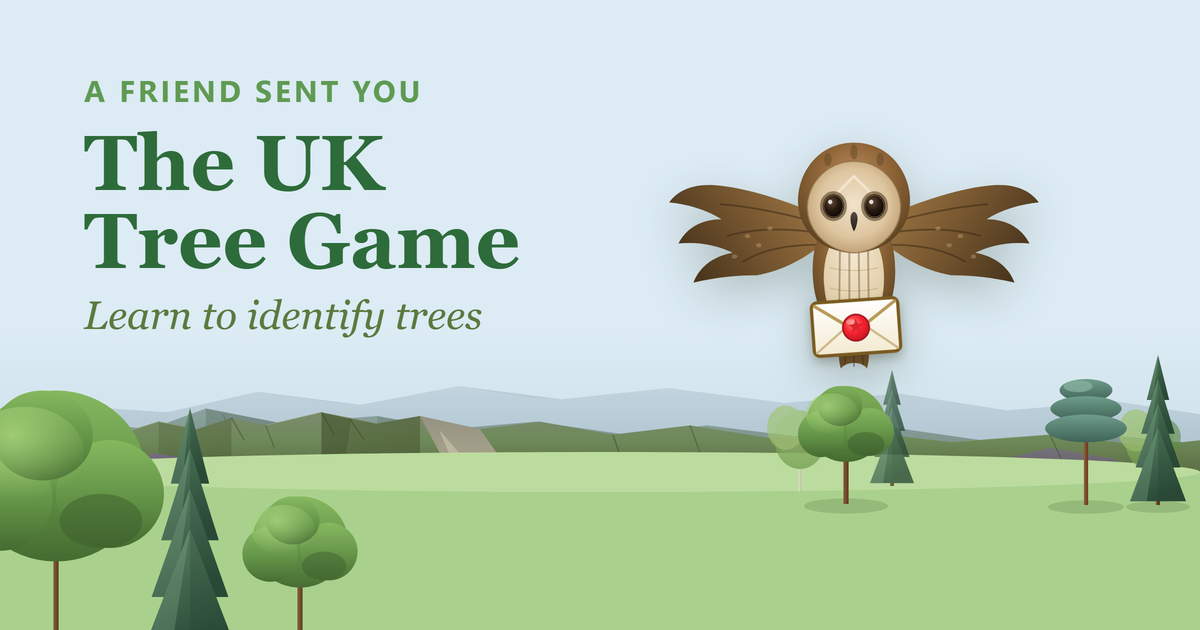
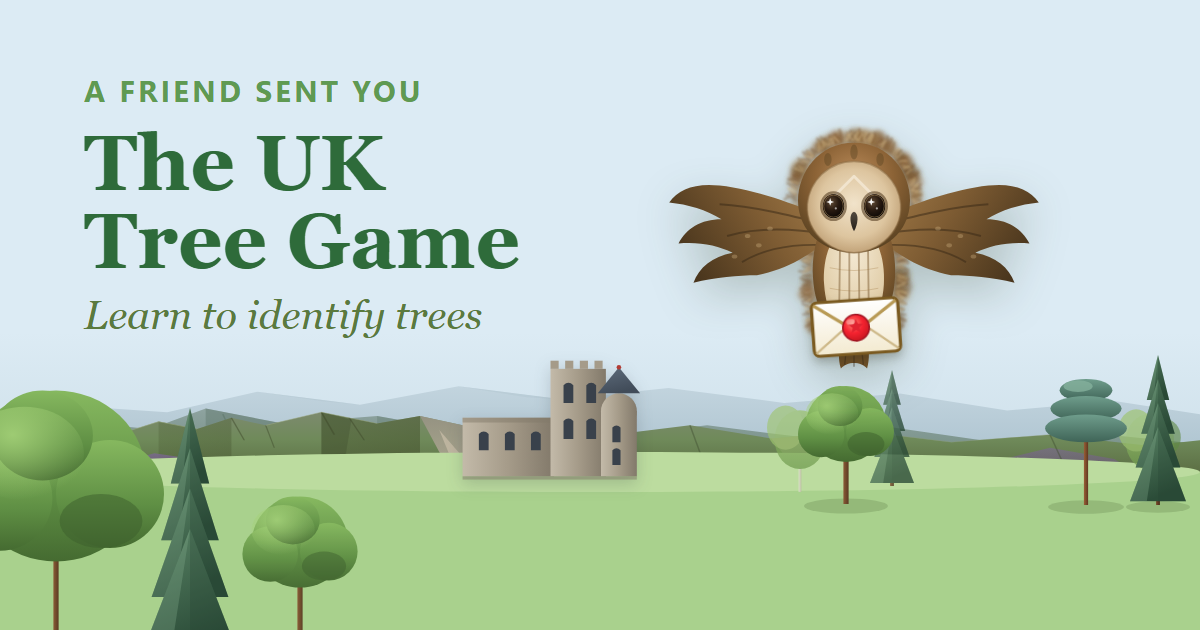
v142: GIF flying owl is now the fluffy + star-sparkle owl (matches the resting owl) and renders IN FRONT of the background castle (z-order fix); owl-share.png link-preview regenerated to match (fluffy owl + baronial castle).

diff --git a/sw.js b/sw.js
@@ -21,7 +21,7 @@
  * exactly the app (migrated from /jans-tree-game/ in v115). Registered HTTPS-only
  * from the HTML, so the file:// copy and the local http preview never touch it.
  */
-const VERSION = 141;
+const VERSION = 142;
 const CACHE = 'jtg-v' + VERSION;
 
 self.addEventListener('install', (event) => {